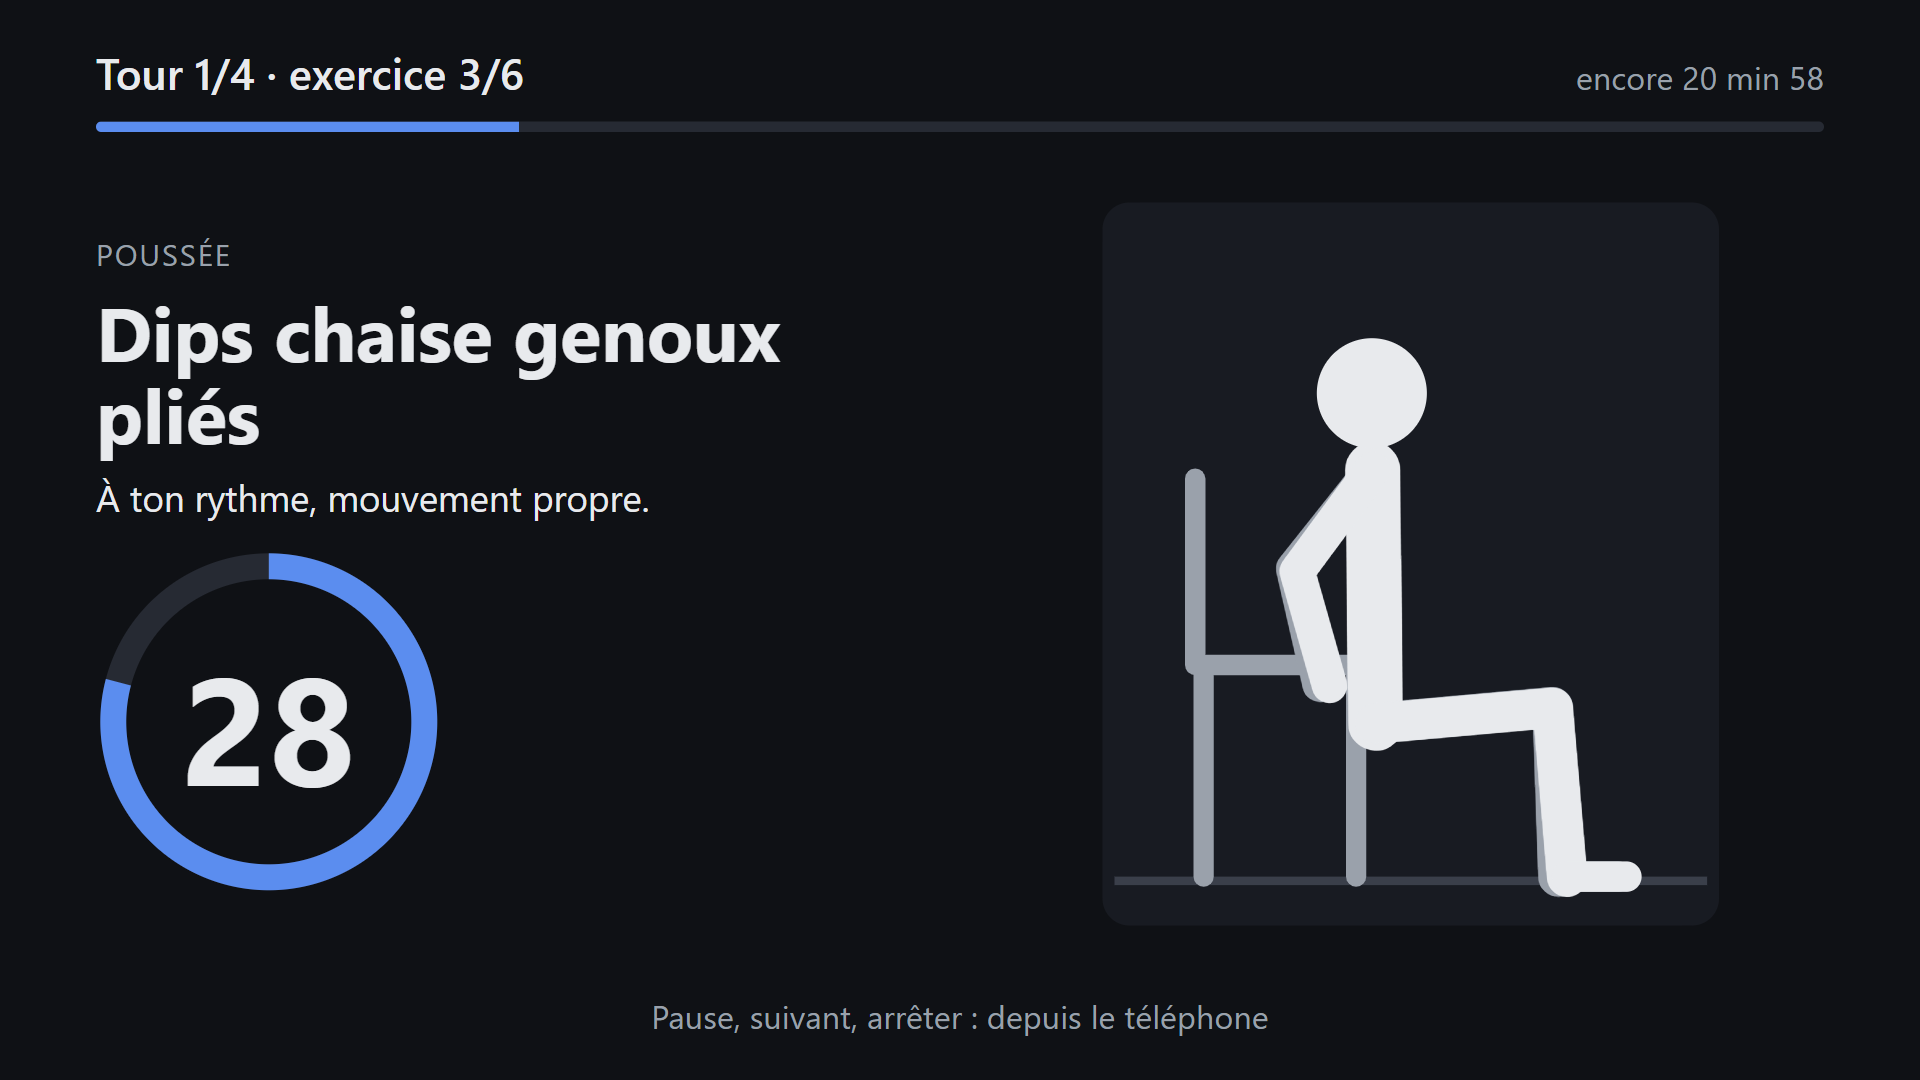
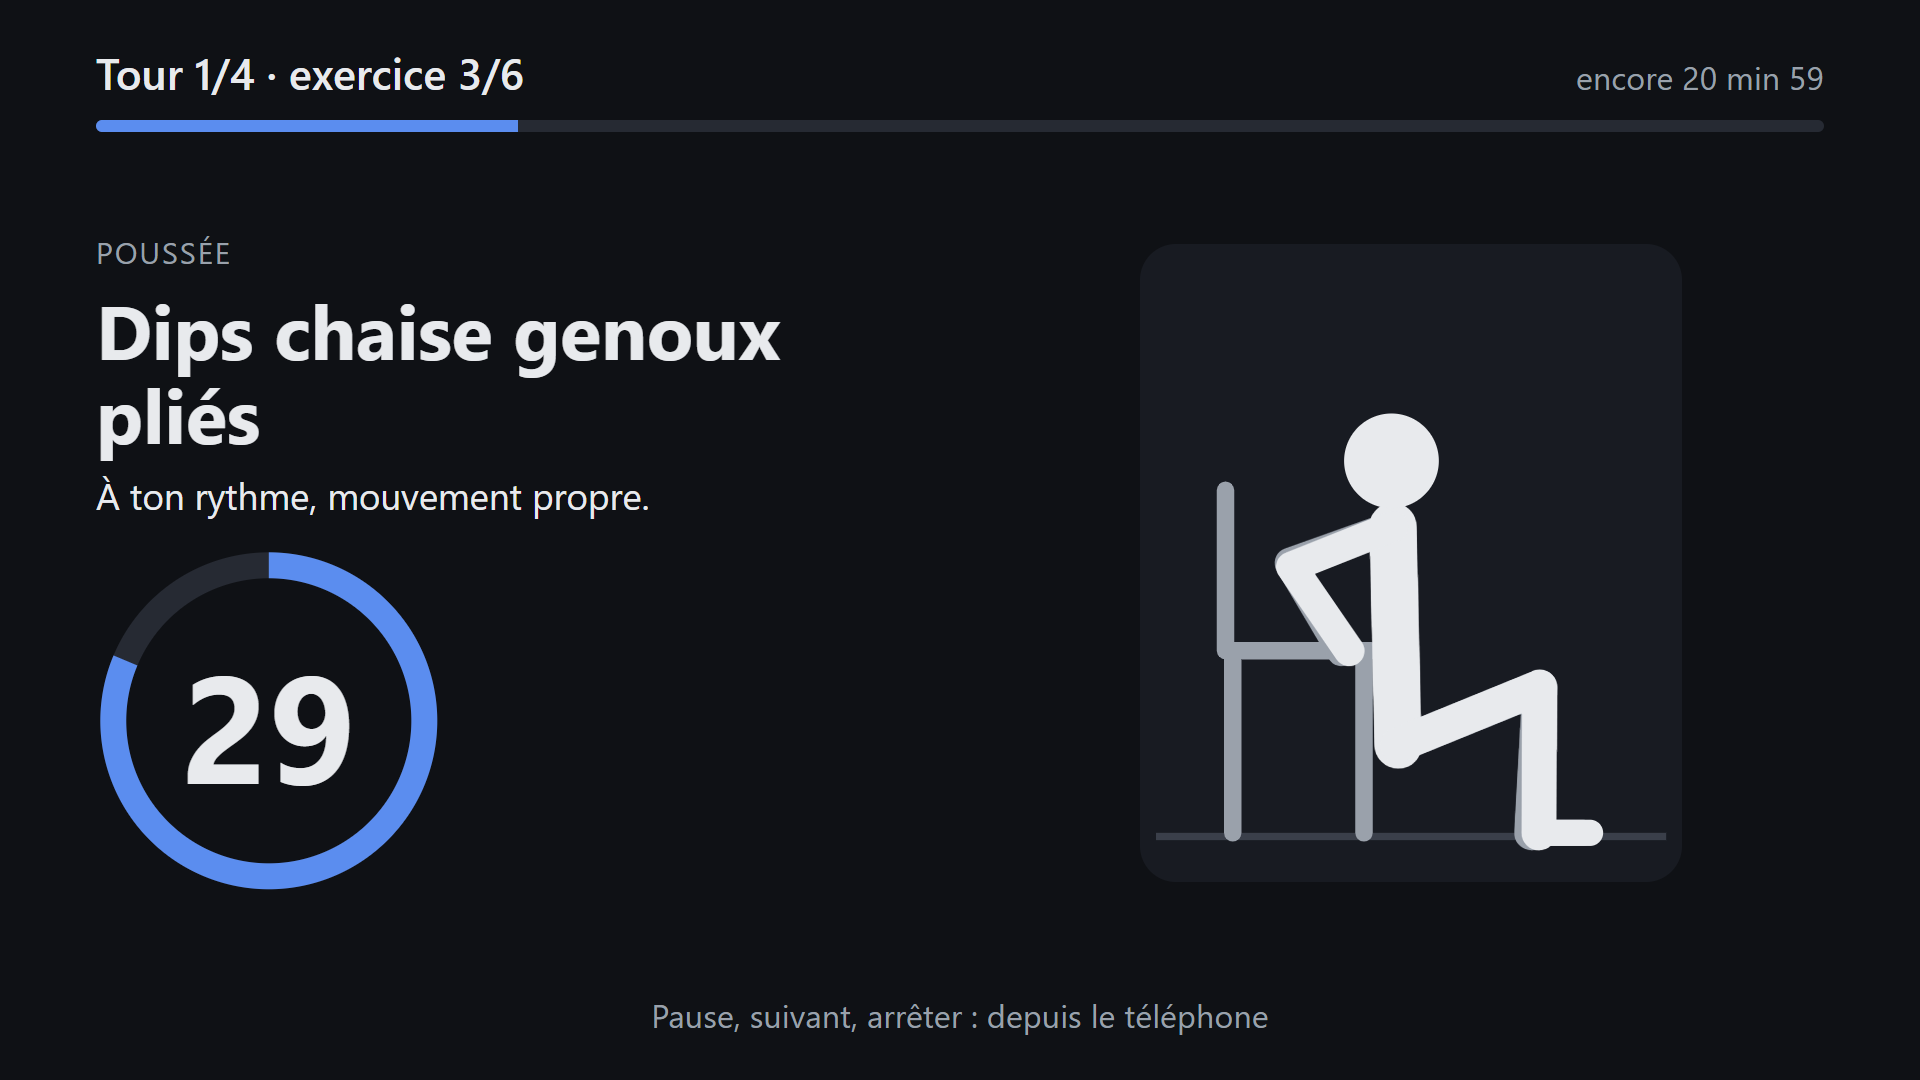
0.87.0 : séance de sport guidée sur la télé
- Onglet Sport du téléphone : « Lancer sur Télé du salon » ouvre la séance guidée en plein écran sur la télé
  (exercice, animation, compte à rebours, tours, bips) ; le téléphone pilote (pause, suivant, arrêter).
- Seule la personne lance et pilote sa séance, depuis son propre téléphone ; une télé déjà prise refuse.
- Rien de personnel sur la télé (ni prénom, ni séance, ni palier, ni historique) ; à la fin, elle efface tout et
  affiche « Séance terminée, Bravo ! » ; la note s'enregistre sur le téléphone seulement.
- Appli HomeHub TV : page de la séance dans une WebView (SportActivity), cache et stockage vidés à la fermeture.
- Animation de la page télé à la taille de l'écran (WebView Full HD : 960 × 540 px CSS).

diff --git a/web/src/tele/TeleSport.svelte b/web/src/tele/TeleSport.svelte
@@ -22,6 +22,8 @@
   const RETRY_MS = 2_000;
   /** La page vide reste ce temps-là avant de demander à l'appli de se fermer. */
   const CLOSE_MS = 4_000;
+  /** Animation à un peu plus de la moitié de la hauteur d'écran (WebView Full HD : 540 px CSS de haut). */
+  let animationHeight = $state(Math.round(window.innerHeight * 0.55));
 
   let plan = $state.raw<ScreenWorkoutPlan | null>(null);
   let steps = $state.raw<WorkoutStep[]>([]);
@@ -82,13 +84,18 @@
     unlockAudio(); // l'appli permet le son sans geste (setMediaPlaybackRequiresUserGesture(false))
     if (token) void follow();
     else error = 'Jeton de la télé absent';
+    const resize = () => (animationHeight = Math.round(window.innerHeight * 0.55));
+    window.addEventListener('resize', resize);
     const ticker = setInterval(() => {
       if (!timer || !steps.length) return;
       const { timer: next, cues } = tickWorkout(timer, steps, Date.now());
       timer = next;
       for (const c of cues) cue(c);
     }, TICK_MS);
-    return () => clearInterval(ticker);
+    return () => {
+      clearInterval(ticker);
+      window.removeEventListener('resize', resize);
+    };
   });
 
   onDestroy(() => {
@@ -125,7 +132,7 @@
       </div>
       <div class="animation">
         {#key `${timer.index}-${step.exercise.id}`}
-          <ExerciseAnimation id={step.exercise.id} still={step.kind === 'rest' || step.kind === 'break'} paused={timer.paused} controls={false} height={460} />
+          <ExerciseAnimation id={step.exercise.id} still={step.kind === 'rest' || step.kind === 'break'} paused={timer.paused} controls={false} height={animationHeight} />
         {/key}
       </div>
       {#if timer.paused}<p class="paused">En pause</p>{/if}

diff --git a/docs/ecrans.md b/docs/ecrans.md
@@ -1,6 +1,6 @@
 # Écrans
 
-Captures de HomeHub 0.86.0, avec des **données fictives** : famille de test (Alex, Sam, Léa, Tom), agenda d'exemple,
+Captures de HomeHub 0.87.0, avec des **données fictives** : famille de test (Alex, Sam, Léa, Tom), agenda d'exemple,
 faux ÉcoleDirecte, faux temps réel Irigo, produits et marques inventés à la place d'Open Food Facts, recettes inventées sur un faux site de cuisine, fiches produit inventées d'une fausse enseigne de drive, calendrier
 scolaire d'exemple (zone B), horloge arrêtée le jeudi 5 novembre 2026 à 07:35 (le 11 novembre et en décembre pour les fériés et les vacances). La météo est réelle,
 celle du jour de la capture.
